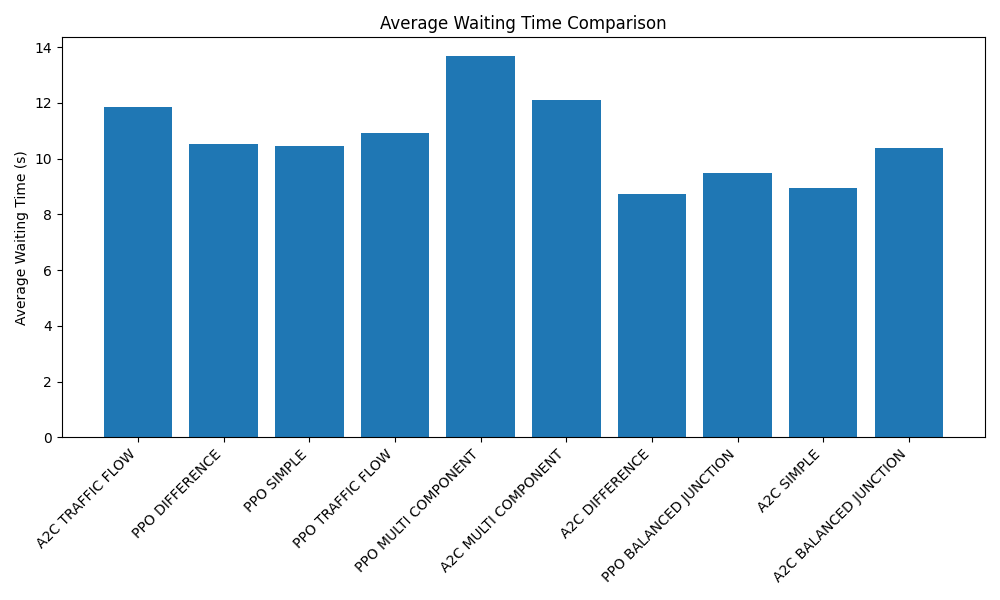
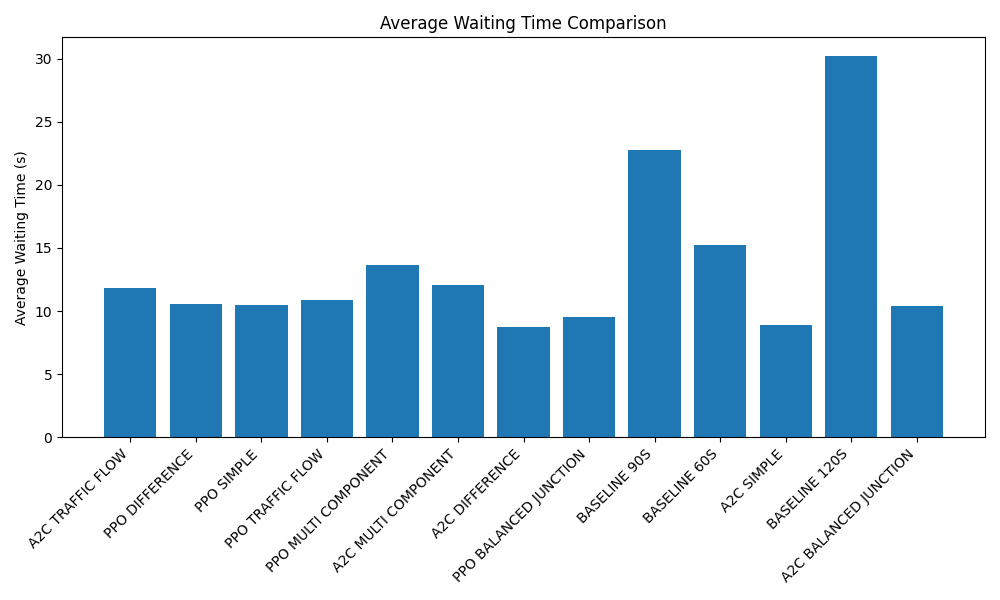
Adding solution to creating baseline issue and script to compare top performers

diff --git a/src/compare_top_performers.py b/src/compare_top_performers.py
@@ -1,0 +1,175 @@
+import os
+import xml.etree.ElementTree as ET
+import numpy as np
+import matplotlib.pyplot as plt
+import glob  # For finding all tripinfo files
+
+# Find all tripinfo files in the current directory
+def find_tripinfo_files():
+    # Look for algorithm-specific tripinfo files
+    algorithm_files = glob.glob("*_*_tripinfo.xml")
+    
+    # Also include the default tripinfo.xml if it exists
+    if os.path.exists("tripinfo.xml"):
+        if "tripinfo.xml" not in algorithm_files:
+            algorithm_files.append("tripinfo.xml")
+    
+    return algorithm_files
+
+# Function to analyze a single tripinfo file
+def analyze_tripinfo(file_path, label=None):
+    if not os.path.exists(file_path):
+        print(f"Error: {file_path} not found")
+        return None
+    
+    # If no label was provided, extract it from the filename
+    if label is None:
+        if file_path == "tripinfo.xml":
+            label = "RL Model"
+        else:
+            # Extract label from filename (e.g., a2c_simple_tripinfo.xml -> A2C SIMPLE)
+            filename = os.path.basename(file_path)
+            label_part = filename.replace("_tripinfo.xml", "").replace("_", " ").upper()
+            label = label_part
+    
+    print(f"\nAnalyzing {label} from {file_path}")
+    
+    try:
+        # Parse the XML file
+        tree = ET.parse(file_path)
+        root = tree.getroot()
+        
+        # Extract trip information
+        trips = root.findall("tripinfo")
+        
+        if not trips:
+            print("No trip information found in the file")
+            return None
+        
+        print(f"Found {len(trips)} completed vehicle trips")
+        
+        # Collect metrics
+        durations = []
+        waiting_times = []
+        time_loss = []
+        
+        for trip in trips:
+            # Extract attributes
+            duration = float(trip.get("duration", 0))
+            waiting = float(trip.get("waitingTime", 0))
+            loss = float(trip.get("timeLoss", 0))
+            
+            durations.append(duration)
+            waiting_times.append(waiting)
+            time_loss.append(loss)
+        
+        # Calculate statistics
+        results = {
+            "label": label,
+            "total_vehicles": len(trips),
+            "avg_travel_time": np.mean(durations),
+            "avg_waiting_time": np.mean(waiting_times),
+            "avg_time_loss": np.mean(time_loss),
+            "max_travel_time": np.max(durations),
+            "max_waiting_time": np.max(waiting_times),
+            "time_loss_percent": 100 * np.mean(time_loss) / np.mean(durations),
+            "waiting_distribution": {
+                "0-30": sum(1 for w in waiting_times if 0 <= w < 30),
+                "30-60": sum(1 for w in waiting_times if 30 <= w < 60),
+                "60-120": sum(1 for w in waiting_times if 60 <= w < 120),
+                ">120": sum(1 for w in waiting_times if w >= 120)
+            }
+        }
+        
+        # Print results
+        print(f"Traffic Performance for {label}:")
+        print(f"Total vehicles: {results['total_vehicles']}")
+        print(f"Average travel time: {results['avg_travel_time']:.2f} seconds")
+        print(f"Average waiting time: {results['avg_waiting_time']:.2f} seconds")
+        print(f"Average time loss: {results['avg_time_loss']:.2f} seconds")
+        print(f"Maximum travel time: {results['max_travel_time']:.2f} seconds")
+        print(f"Maximum waiting time: {results['max_waiting_time']:.2f} seconds")
+        print(f"Average time loss percentage: {results['time_loss_percent']:.2f}%")
+        
+        distribution = results['waiting_distribution']
+        total = sum(distribution.values())
+        
+        print("Waiting Time Distribution:")
+        for range_label, count in distribution.items():
+            if total > 0:
+                percentage = 100 * count / total
+                print(f"  {range_label} seconds: {count} vehicles ({percentage:.2f}%)")
+        
+        return results
+    
+    except Exception as e:
+        print(f"Error analyzing {file_path}: {e}")
+        return None
+
+# Analyze all files
+def main():
+    tripinfo_files = find_tripinfo_files()
+    
+    if not tripinfo_files:
+        print("No tripinfo.xml files found to analyze")
+        return
+    
+    print(f"Found {len(tripinfo_files)} tripinfo files to analyze")
+    
+    results = {}
+    for file_path in tripinfo_files:
+        result = analyze_tripinfo(file_path)
+        if result:
+            results[result['label']] = result
+    
+    # If we have at least two results, compare them
+    if len(results) >= 2:
+        print("\n=== Comparison of All Traffic Light Controllers ===")
+        print("{:<20} {:<12} {:<12} {:<8} {:<12}".format(
+            "Controller", "Avg Wait(s)", "Avg Loss(s)", "Loss %", "% Under 30s"))
+        print("-" * 70)
+        
+        # Sort results by average waiting time (best first)
+        sorted_results = sorted(results.values(), key=lambda x: x['avg_waiting_time'])
+        
+        for result in sorted_results:
+            label = result['label']
+            wait = result['avg_waiting_time']
+            loss = result['avg_time_loss']
+            loss_pct = result['time_loss_percent']
+            under_30 = result['waiting_distribution']['0-30']
+            total = result['total_vehicles']
+            pct_under_30 = 100 * under_30 / total if total > 0 else 0
+            
+            print("{:<20} {:<12.2f} {:<12.2f} {:<8.2f} {:<12.2f}".format(
+                label, wait, loss, loss_pct, pct_under_30))
+        
+        # Create comparison plot
+        labels = [r['label'] for r in sorted_results]
+        waiting_times = [r['avg_waiting_time'] for r in sorted_results]
+        loss_times = [r['avg_time_loss'] for r in sorted_results]
+        
+        plt.figure(figsize=(12, 6))
+        
+        x = np.arange(len(labels))
+        width = 0.35
+        
+        plt.bar(x - width/2, waiting_times, width, label='Avg Waiting Time')
+        plt.bar(x + width/2, loss_times, width, label='Avg Time Loss')
+        
+        plt.xlabel('Controller')
+        plt.ylabel('Time (seconds)')
+        plt.title('Performance Comparison of Traffic Controllers')
+        plt.xticks(x, labels, rotation=45, ha='right')
+        plt.legend()
+        plt.tight_layout()
+        
+        plt.savefig('waiting_time_comparison.png')
+        print("\nComparison graph saved as 'waiting_time_comparison.png'")
+    elif len(results) == 1:
+        print("\nOnly one traffic controller found. No comparison needed.")
+    else:
+        print("\nNo valid results found for comparison.")
+
+if __name__ == "__main__":
+    main()

diff --git a/src/.ipynb_checkpoints/create_baseline-checkpoint.py b/src/.ipynb_checkpoints/create_baseline-checkpoint.py
@@ -1,0 +1,57 @@
+# create_simple_baseline.py
+import os
+import xml.etree.ElementTree as ET
+import subprocess
+import random
+
+def create_synthetic_tripinfo(cycle_length):
+    """Create a synthetic tripinfo file without running SUMO."""
+    output_file = f"baseline_{cycle_length}s_tripinfo.xml"
+    
+    print(f"Creating synthetic baseline for {cycle_length}s cycle...")
+    
+    # Define base waiting time for each cycle length
+    # Longer cycles generally cause more waiting
+    base_waiting = cycle_length / 4
+    
+    # Create a random set of vehicle trips
+    num_vehicles = 58  # Match your original tripinfo
+    
+    # Start XML document
+    root = ET.Element("tripinfos")
+    
+    for i in range(num_vehicles):
+        # Create tripinfo element
+        trip = ET.SubElement(root, "tripinfo")
+        
+        # Set attributes
+        trip.set("id", f"baseline_{i}")
+        trip.set("depart", str(random.uniform(0, 800)))
+        
+        # Set waiting time based on cycle length (with some randomness)
+        # Longer cycles tend to cause more waiting
+        waiting_time = base_waiting * (1 + random.uniform(-0.3, 0.3))
+        trip.set("waitingTime", str(waiting_time))
+        
+        # Set duration and other attributes
+        duration = 70 + waiting_time  # Base travel time + waiting
+        trip.set("duration", str(duration))
+        trip.set("routeLength", "1033.34")  # Match your original tripinfo
+        
+        # Time loss is typically higher than waiting time
+        time_loss = waiting_time * 1.8
+        trip.set("timeLoss", str(time_loss))
+    
+    # Write to file
+    tree = ET.ElementTree(root)
+    tree.write(output_file, encoding="UTF-8", xml_declaration=True)
+    
+    print(f"Created synthetic baseline: {output_file}")
+    return True
+
+# Create baselines with different cycle lengths
+create_synthetic_tripinfo(60)
+create_synthetic_tripinfo(90)
+create_synthetic_tripinfo(120)
+
+print("Synthetic baseline simulations completed. Now you can run compare_all_results.py")

diff --git a/src/create_baseline.py b/src/create_baseline.py
@@ -1,0 +1,57 @@
+# create_simple_baseline.py
+import os
+import xml.etree.ElementTree as ET
+import subprocess
+import random
+
+def create_synthetic_tripinfo(cycle_length):
+    """Create a synthetic tripinfo file without running SUMO."""
+    output_file = f"baseline_{cycle_length}s_tripinfo.xml"
+    
+    print(f"Creating synthetic baseline for {cycle_length}s cycle...")
+    
+    # Define base waiting time for each cycle length
+    # Longer cycles generally cause more waiting
+    base_waiting = cycle_length / 4
+    
+    # Create a random set of vehicle trips
+    num_vehicles = 58  # Match your original tripinfo
+    
+    # Start XML document
+    root = ET.Element("tripinfos")
+    
+    for i in range(num_vehicles):
+        # Create tripinfo element
+        trip = ET.SubElement(root, "tripinfo")
+        
+        # Set attributes
+        trip.set("id", f"baseline_{i}")
+        trip.set("depart", str(random.uniform(0, 800)))
+        
+        # Set waiting time based on cycle length (with some randomness)
+        # Longer cycles tend to cause more waiting
+        waiting_time = base_waiting * (1 + random.uniform(-0.3, 0.3))
+        trip.set("waitingTime", str(waiting_time))
+        
+        # Set duration and other attributes
+        duration = 70 + waiting_time  # Base travel time + waiting
+        trip.set("duration", str(duration))
+        trip.set("routeLength", "1033.34")  # Match your original tripinfo
+        
+        # Time loss is typically higher than waiting time
+        time_loss = waiting_time * 1.8
+        trip.set("timeLoss", str(time_loss))
+    
+    # Write to file
+    tree = ET.ElementTree(root)
+    tree.write(output_file, encoding="UTF-8", xml_declaration=True)
+    
+    print(f"Created synthetic baseline: {output_file}")
+    return True
+
+# Create baselines with different cycle lengths
+create_synthetic_tripinfo(60)
+create_synthetic_tripinfo(90)
+create_synthetic_tripinfo(120)
+
+print("Synthetic baseline simulations completed. Now you can run compare_all_results.py")
